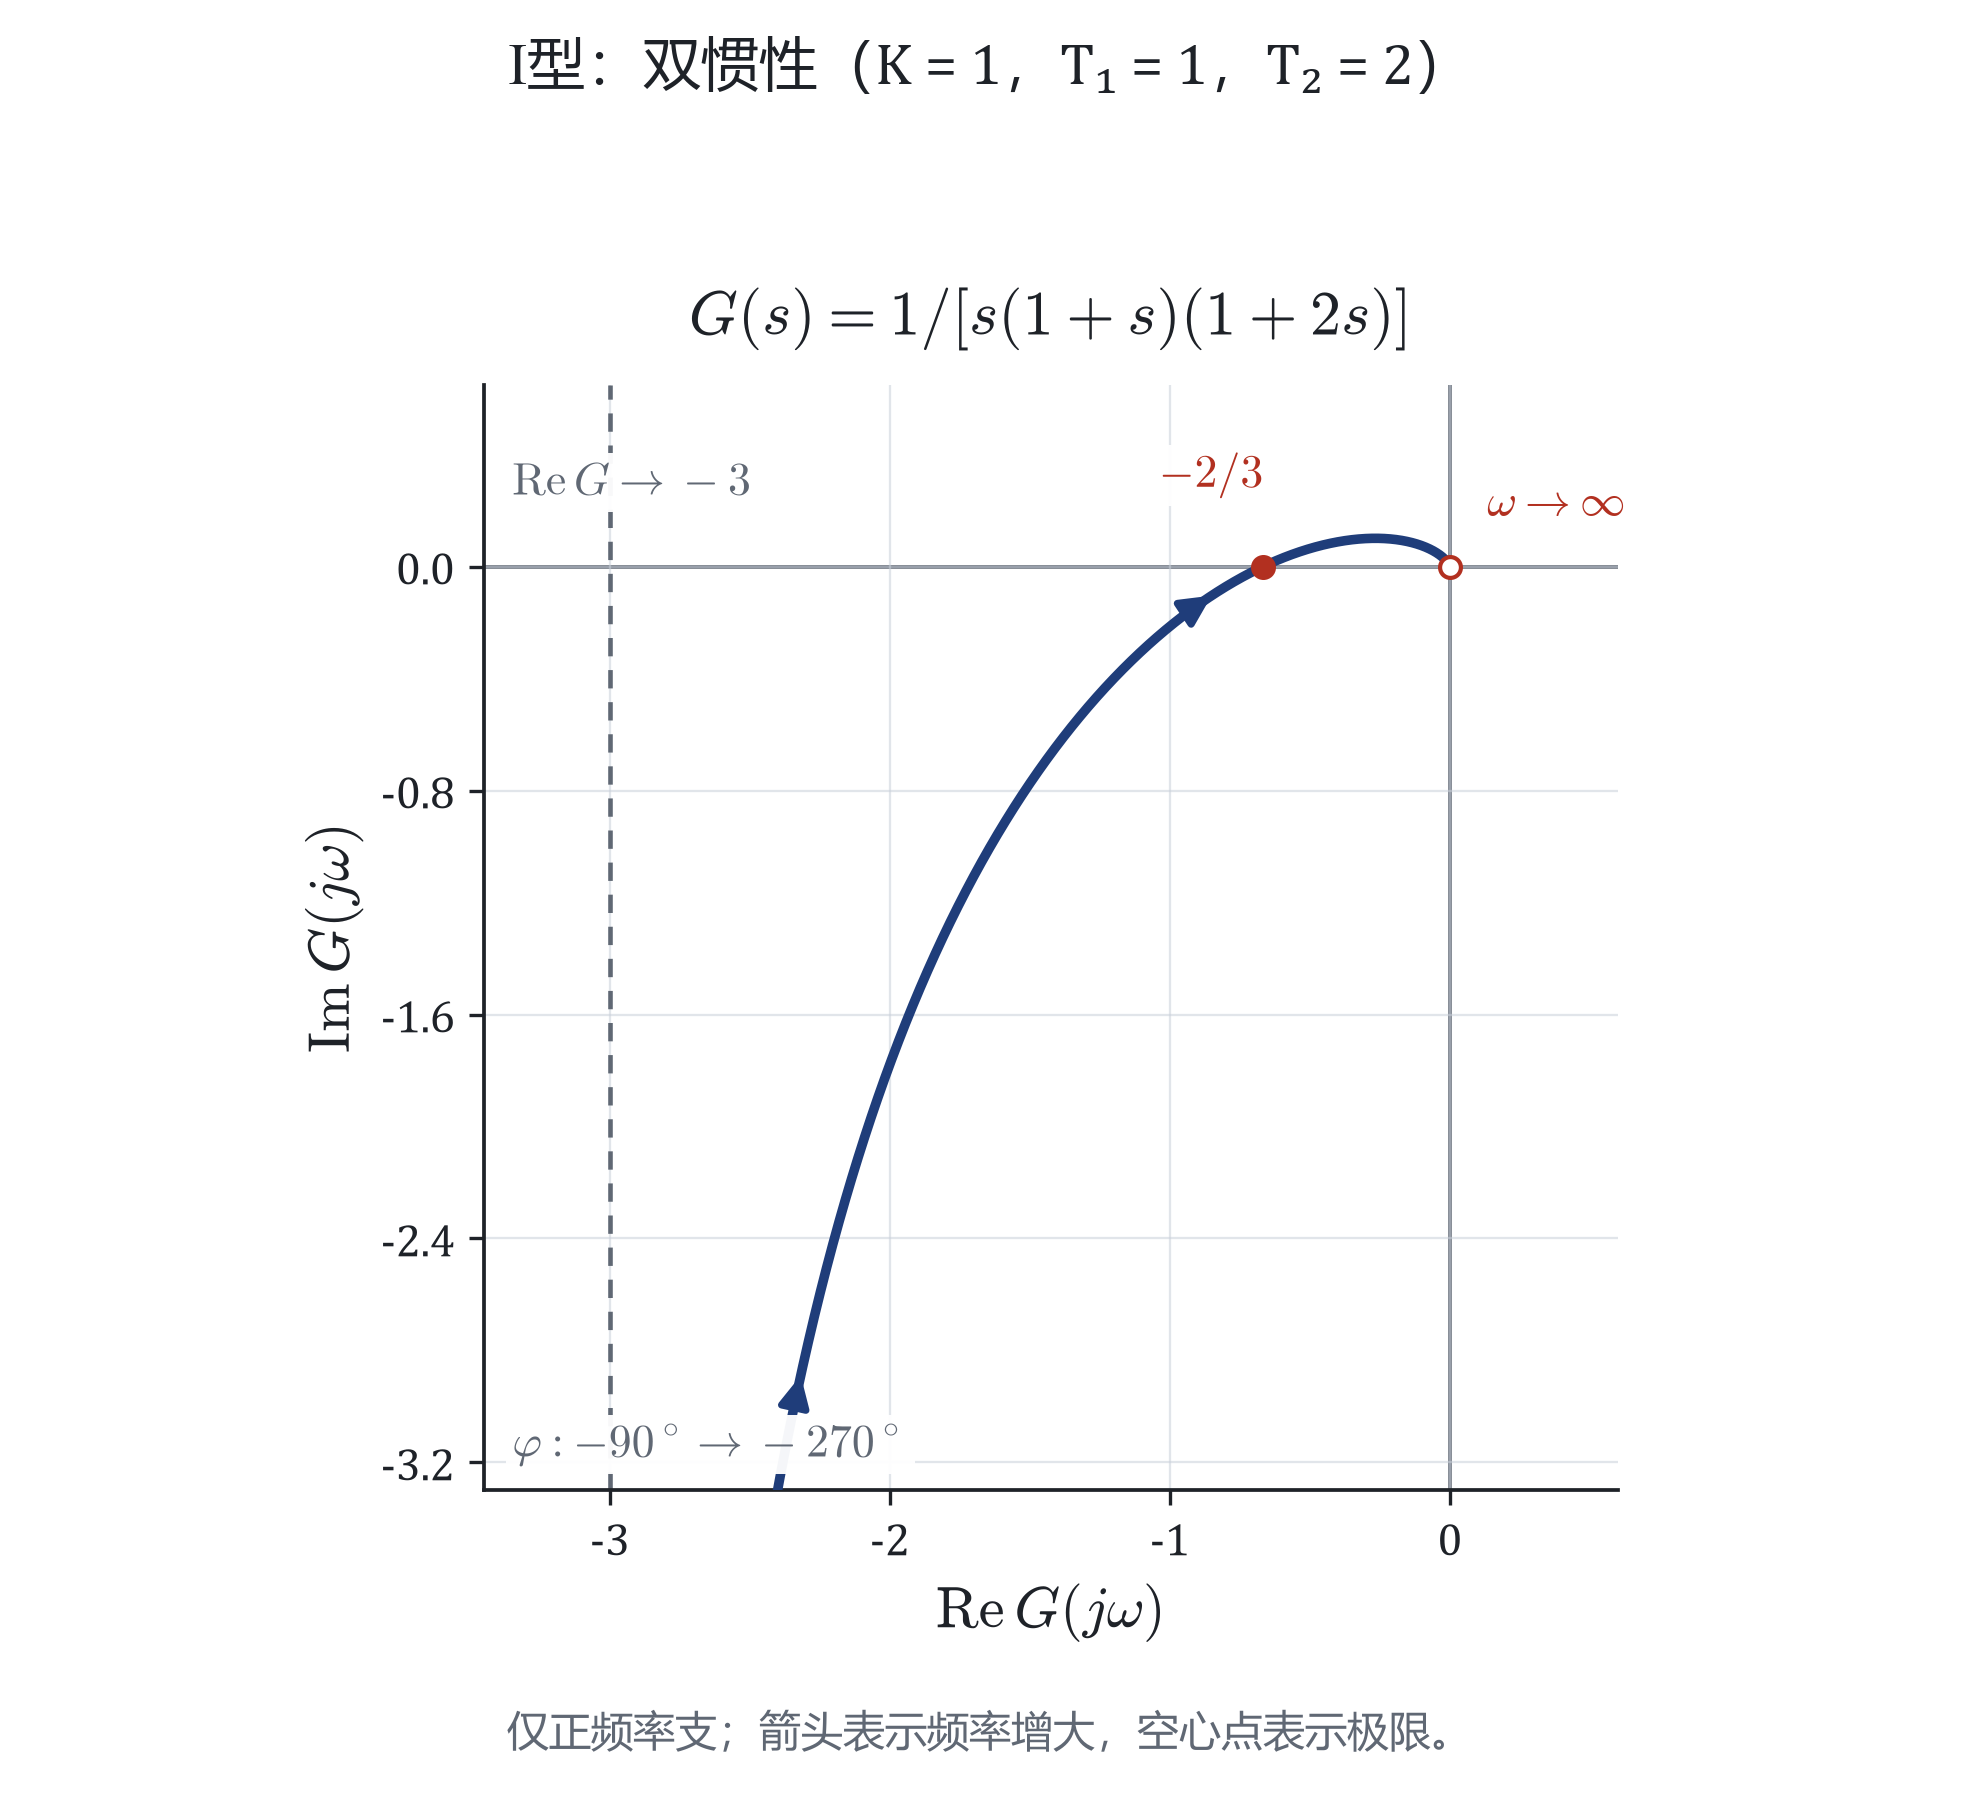
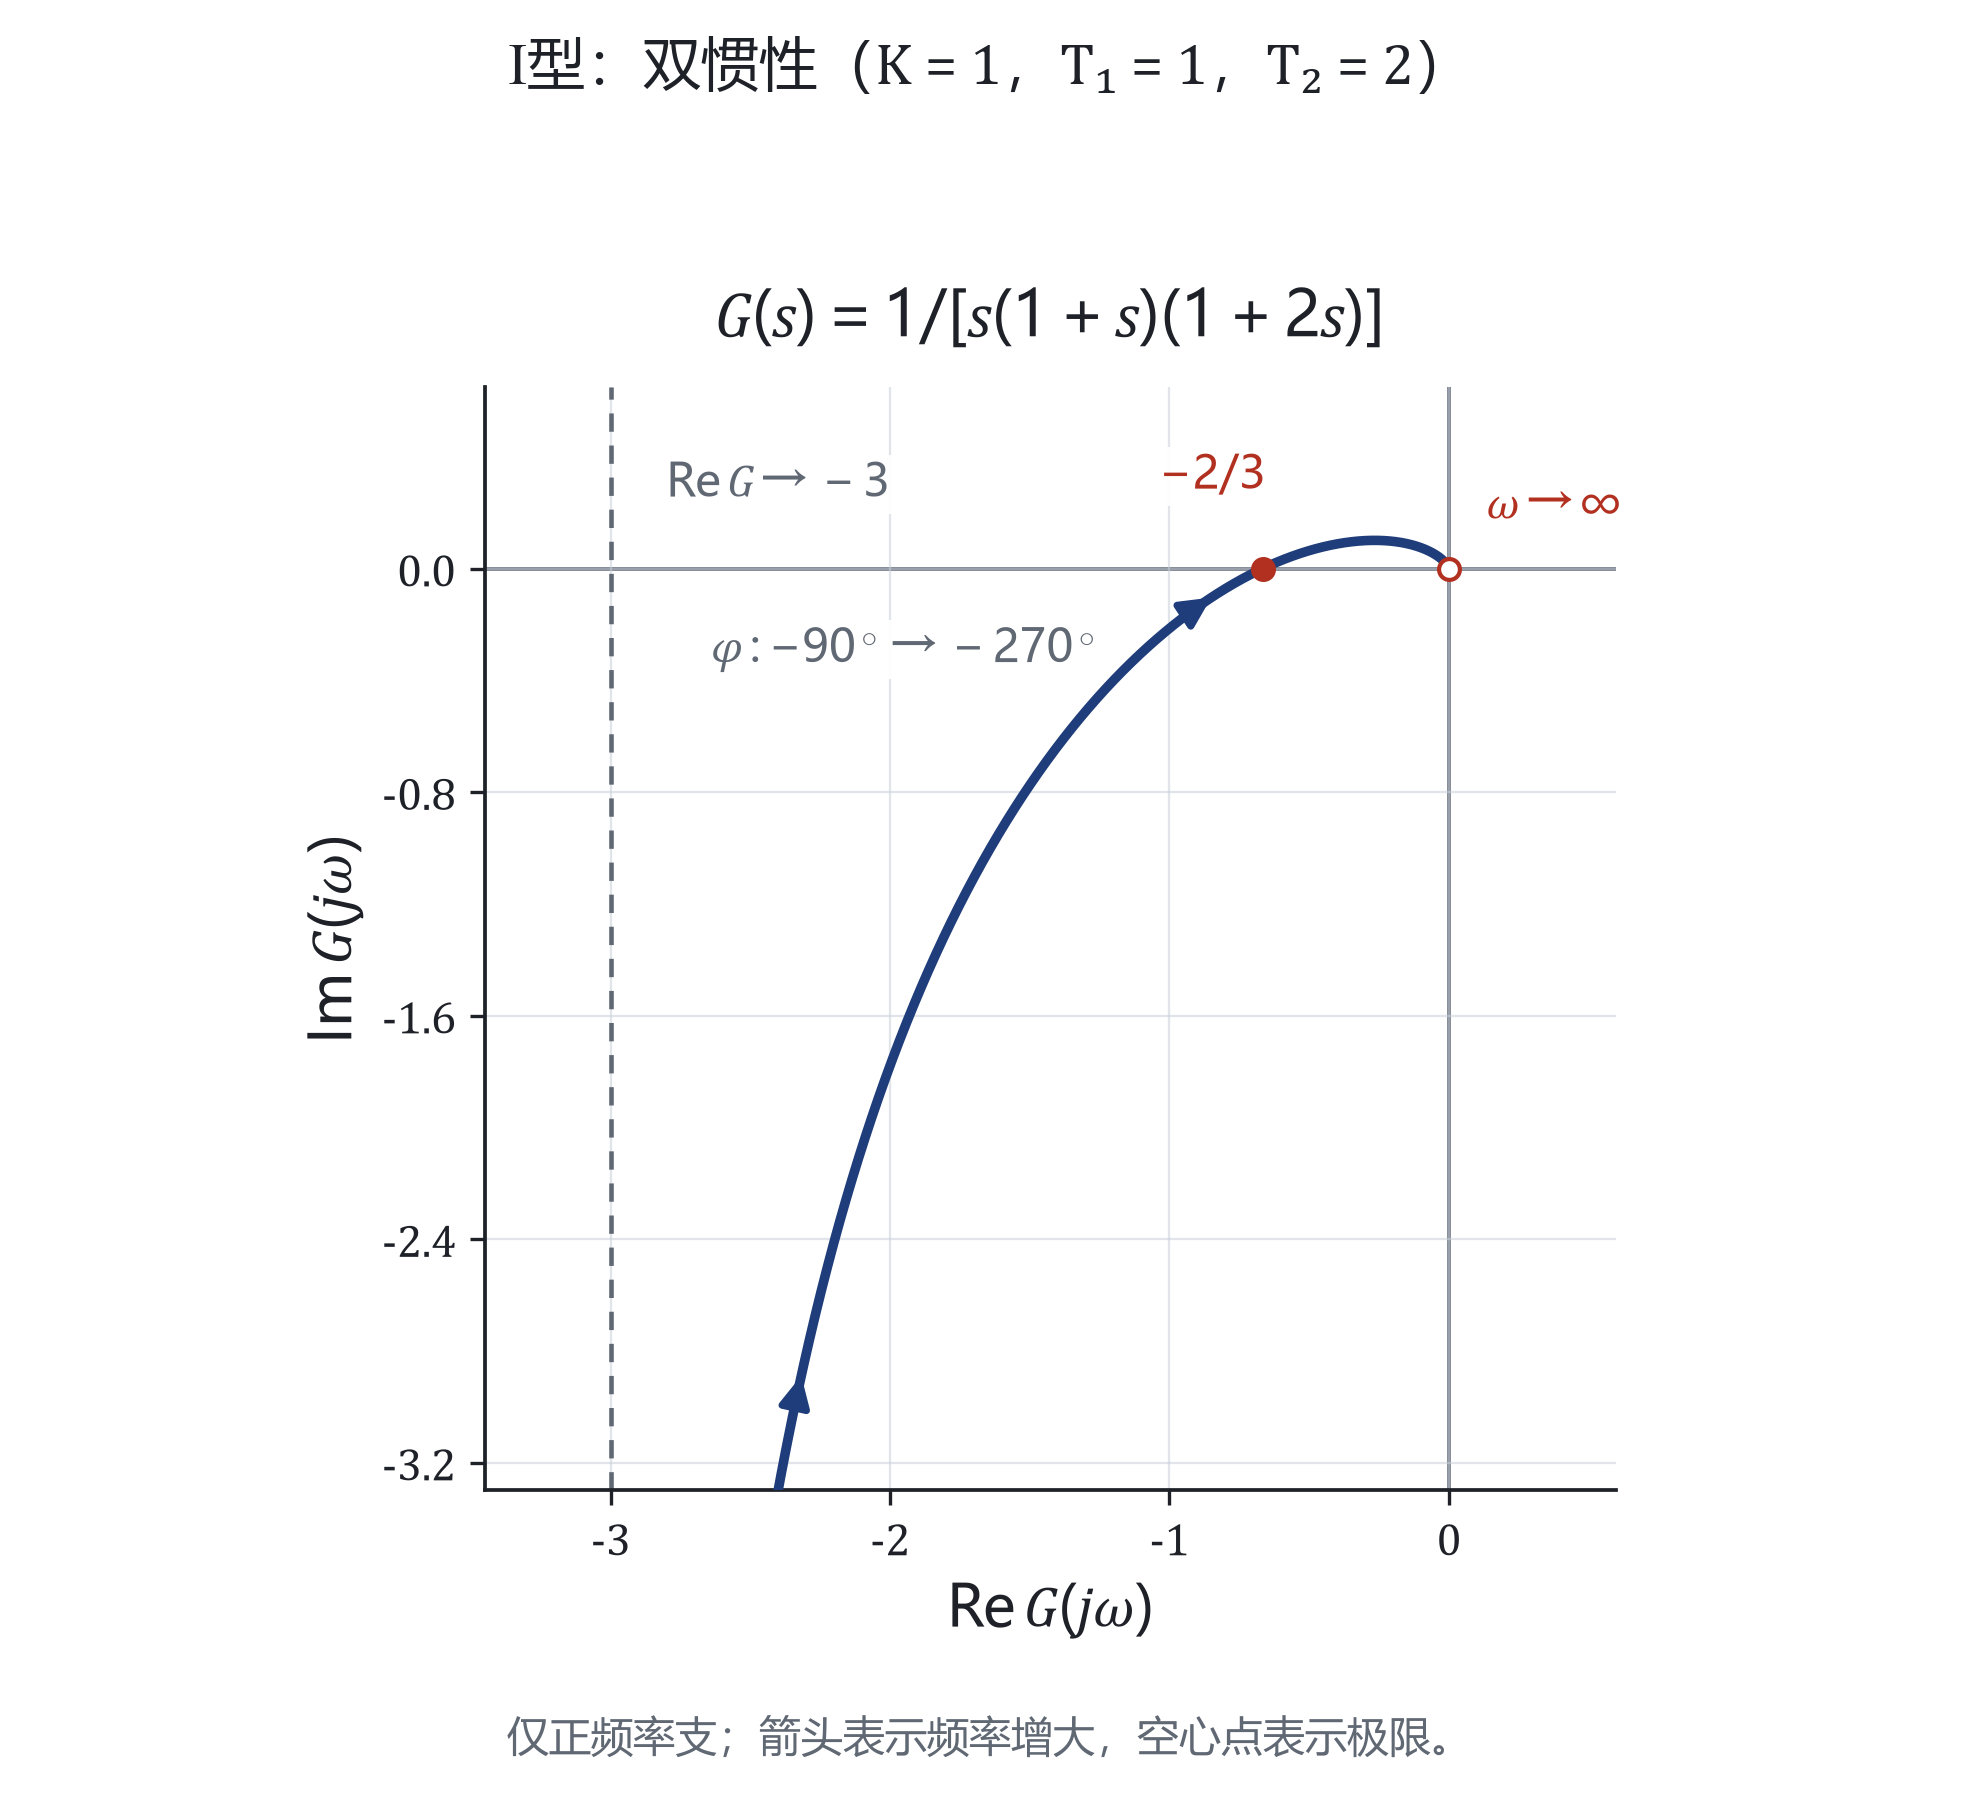
fix: 再清 14 张图的标注遮挡（第二批：开环型别族、虚轴极点对）
openloop-nyquist.py（三重微分 267 点最重）
- 三重微分：A 点上方是曲线从第二象限下来的段、左下是它从第三象限上来的段，
  只有右下方（第四象限）是曲线不去的地方，原来放左上直接咬掉 267 点；
  原点 ω=0 标注同步下移避免与 A 框叠字；|G|=1 挪到单位圆内侧与曲线之间的
  夹缝；相角说明整块下移到横轴之下（原来压在横轴上）。
- 给 shape() 加 phase_pos / asym_pos 两个参数：相角说明默认在左下角，而
  左下常常正是曲线出发的地方（Ⅰ型两图各咬掉 44~57 点）；渐近线标签放太
  靠左又会骑到竖虚线上。逐图覆盖后 0 型三张 + Ⅰ型两张全部清零。
- Ⅱ型零点对比：左上是 G₁ 低频支、左下是 G₂ 低频支，两条说明挪到右下空区；
  图例直接去掉——纵轴正好落在右上角，任何够宽的图例框都会压到纵轴上，
  而两条曲线已由同色说明点名，不靠图例分辨。
- 三重微分原点放大：说明拆两行，否则框会拖到纵轴上。

ch5-imaginary-pole-pair.py（263 / 163 / 157 点）
- −135° 标签原贴在相频曲线上（263 点）。ω<5 段曲线只占 -91°~-135°，
  下面 -140°~-310° 整片是空的，把标签沉到那里再用引线连回 (5, -135°)。
- ωc = 8.93 原在右下，同时压住真实曲线与渐近线（各 160 点）；
  抬到 0 dB 线上方：ωc 右侧两条线都在 0 dB 以下并继续下降。

自检：两张最重的图 0 处；openloop-nyquist 只剩 4 处 ≤34 点的轻微项（相角
说明贴纵轴、ωn 标注压曲线等），留待后续批次。

diff --git a/.scripts/figures/openloop-nyquist.py b/.scripts/figures/openloop-nyquist.py
@@ -84,21 +84,24 @@ def verify():
 
 
 def shape(name, title, formula, system, limits, arrows, phase, start=None,
-          crossing=None, asymptote=None, note_text=None, figsize=(6.6,6.0)):
+          crossing=None, asymptote=None, note_text=None, figsize=(6.6,6.0),
+          phase_pos=(0.025,0.03), asym_pos=(0.025,0.9)):
+    """phase_pos / asym_pos 可以逐图覆盖：左下角常常正好是曲线出发的地方，
+    相角说明放那儿必然压曲线；渐近线标签放太靠左又会骑到竖线上。"""
     if not selected(name):
         return
     fig, ax = canvas(title, formula, *limits, figsize=figsize)
     curve(ax, system, W, arrows)
     if asymptote is not None:
         ax.axvline(asymptote, color=fs.SUB, lw=1.1, ls=(0,(4,3)), zorder=2)
-        note(ax, rf"$\mathrm{{Re}}\,G\to {asymptote:g}$", (0.025,0.9))
+        note(ax, rf"$\mathrm{{Re}}\,G\to {asymptote:g}$", asym_pos)
     if start is not None:
         point(ax, start, r"$\omega=0$", (-42,12))
     point(ax, 0, r"$\omega\to\infty$", (9,12), limit=True)
     if crossing is not None:
         value, label, offset = crossing
         point(ax, value, label, offset)
-    note(ax, phase)
+    note(ax, phase, phase_pos)
     if note_text:
         note(ax, note_text, (0.025,0.8))
     finish(fig, OUT/name)
@@ -107,10 +110,10 @@ def shape(name, title, formula, system, limits, arrows, phase, start=None,
 def draw_shapes():
     shape("频域-奈氏-0型单惯性.png", "0 型：单惯性（K = 1，T = 1）",
           r"$G(s)=1/(1+s)$", G1, ((-0.2,1.2),(-0.78,0.22)), (0.65,2.0),
-          r"$\varphi:0^\circ\to-90^\circ$", start=1)
+          r"$\varphi:0^\circ\to-90^\circ$", start=1, phase_pos=(0.157,0.02))
     shape("频域-奈氏-0型双惯性.png", "0 型：双惯性（T₁ = 1，T₂ = 2）",
           r"$G(s)=1/[(1+s)(1+2s)]$", G02, ((-0.28,1.18),(-0.84,0.24)), (0.22,0.8),
-          r"$\varphi:0^\circ\to-180^\circ$", start=1)
+          r"$\varphi:0^\circ\to-180^\circ$", start=1, phase_pos=(0.20,0.02))
     shape("频域-奈氏-0型三惯性.png", "0 型：三惯性（T₁ = 1，T₂ = 2，T₃ = 0.5）",
           r"$G(s)=1/[(1+s)(1+2s)(1+0.5s)]$", G03,
           ((-0.36,1.18),(-0.86,0.30)), (0.23,0.9),
@@ -118,11 +121,13 @@ def draw_shapes():
           crossing=(-4/45,r"$-4/45$",(-40,20)))
     shape("频域-奈氏-Ⅰ型单惯性.png", "Ⅰ型：单惯性（K = 1，T = 1）",
           r"$G(s)=1/[s(1+s)]$", GI1, ((-1.55,0.7),(-2.9,0.4)), (0.4,1.1),
-          r"$\varphi:-90^\circ\to-180^\circ$", asymptote=-1)
+          r"$\varphi:-90^\circ\to-180^\circ$", asymptote=-1,
+          phase_pos=(0.711,0.06), asym_pos=(0.30,0.90))
     shape("频域-奈氏-Ⅰ型双惯性.png", "Ⅰ型：双惯性（K = 1，T₁ = 1，T₂ = 2）",
           r"$G(s)=1/[s(1+s)(1+2s)]$", GI2, ((-3.45,0.6),(-3.3,0.65)), (0.21,0.55),
           r"$\varphi:-90^\circ\to-270^\circ$", asymptote=-3,
-          crossing=(-2/3,r"$-2/3$",(-25,19)))
+          crossing=(-2/3,r"$-2/3$",(-25,19)),
+          phase_pos=(0.20,0.75), asym_pos=(0.16,0.90))
     shape("频域-奈氏-Ⅰ型带零点.png", "Ⅰ型：带零点（τ = 4，T₁ = 1，T₂ = 2）",
           r"$G(s)=(1+4s)/[s(1+s)(1+2s)]$", GIZ,
           ((-1.4,1.6),(-8.0,0.6)), (0.16,0.35,1.4),
@@ -167,12 +172,16 @@ def draw_type2_example():
         (-27,4),(-12,15), figsize=(7.4,6.7))
     curve(ax, GII2, W, (0.21,0.36), fs.MAG, r"$G_1$")
     curve(ax, GEX2, W, (0.24,0.52), fs.PHA, r"$G_2$")
-    point(ax, -128/9, r"$(-128/9,\,0)$", (-47,-28))
+    point(ax, -128/9, r"$(-128/9,\,0)$", (-47,-34))
     point(ax, 0, r"$\omega\to\infty$", (6,13), limit=True)
-    note(ax, "G₁ 低频：第二象限", (0.035,0.89), color=fs.MAG)
-    note(ax, "G₂ 低频：第三象限", (0.035,0.14), color=fs.PHA)
+    # 左上是 G₁ 的低频支、左下是 G₂ 的低频支，两条说明只能挪到右下空区；
+    # 图例默认留的边框余量会让它左边压到纵轴上，borderaxespad 归零贴住右边。
+    note(ax, "G₁ 低频：第二象限", (0.62,0.16), color=fs.MAG)
+    note(ax, "G₂ 低频：第三象限", (0.62,0.06), color=fs.PHA)
     note(ax, r"$\tau=6>1+2+0.5$", (0.035,0.055))
-    ax.legend(loc="upper right", fontsize=11)
+    # 不画图例：纵轴正好落在右上角，任何足够宽的图例框都会压到纵轴上；
+    # 两条曲线已由下面两条同色说明（G₁ / G₂ 低频）直接点名，不靠图例分辨。
+
     finish(fig, OUT/name, "两条曲线均从第一象限趋于原点；无穷远段已裁去。")
 
 
@@ -202,12 +211,17 @@ def draw_origin_zero_example():
         theta = np.linspace(0,np.pi,1200)
         ax.plot(np.cos(theta),np.sin(theta),ls=(0,(4,3)),lw=1,color=fs.SUB,zorder=1)
         curve(ax, GEX3, W, (0.8,2.5,7))
-        point(ax, 0, r"$\omega=0$", (5,-21), limit=True)
-        point(ax, -25/936, "A", (-19,9))
+        # A 点上方是曲线从第二象限下来的那段、左下是它从第三象限上来的那段，
+        # 只有右下方（第四象限）是曲线根本不去的地方 —— 原来放左上，直接咬掉
+        # 267 个采样点。原点的 ω=0 标注同步下移，免得和 A 的框叠在一起。
+        point(ax, 0, r"$\omega=0$", (8,-32), limit=True)
+        point(ax, -25/936, "A", (12,-14))
         point(ax, 1j*31*np.sqrt(155)/936, "B", (-18,7))
         point(ax, 1, r"$\omega\to\infty$", (-66,-22), limit=True)
-        note(ax, r"$|G|=1$", (0.64,0.82))
-        note(ax, r"$\varphi:270^\circ\to0^\circ$", (0.38,0.10))
+        # |G|=1 挪到单位圆内侧、曲线上方的那条夹缝里（原来正压在圆弧上）
+        note(ax, r"$|G|=1$", (0.534,0.708))
+        # 相角说明原来压在横轴上（框跨过 y=0），整块下移到横轴之下
+        note(ax, r"$\varphi:270^\circ\to0^\circ$", (0.38,0.035))
         finish(fig, OUT/name, "虚线为单位圆辅助线；原点附近的第三象限细节另见放大图。")
     name = "频域-幅相例题-三重微分原点放大.png"
     if selected(name):
@@ -217,7 +231,8 @@ def draw_origin_zero_example():
         curve(ax, GEX3, W, (0.12,0.30,0.48))
         point(ax, 0, r"$\omega=0$", (6,-15), limit=True)
         point(ax, -25/936, r"$A=(-25/936,\,0)$", (-13,14))
-        note(ax, "先进入第三象限，再向上穿过负实轴", (0.025,0.9))
+        # 文案拆两行：写成一行框会拖到纵轴上（压住纵轴线）
+        note(ax, "先进入第三象限，" "\n" "再向上穿过负实轴", (0.025,0.9))
         finish(fig, OUT/name, "仅截取起始段；箭头表示频率增大。")
 
 

diff --git a/.scripts/figures/ch5-imaginary-pole-pair.py b/.scripts/figures/ch5-imaginary-pole-pair.py
@@ -84,7 +84,9 @@ def draw(wc: float) -> None:
     ax1.axvline(wc, color=fs.SUB, lw=0.9, ls=(0, (4, 3)), zorder=1)
     ax1.annotate("L > 0 段（计数有效）", xy=(0.11, 0.86), xycoords="axes fraction",
                  fontsize=11, color=fs.INK)
-    ax1.annotate("ωc = 8.93", xy=(wc, 0), xytext=(14, -26),
+    # 抬到 0 dB 线**上方**：ωc 右侧真实曲线与渐近线都在 0 dB 以下并继续下降，
+    # 放右下必然压住两条线（实测各咬掉 160 个采样点）
+    ax1.annotate("ωc = 8.93", xy=(wc, 0), xytext=(14, 20),
                  textcoords="offset points", fontsize=11, color=fs.SUB)
     fs.tidy(ax1, turn_freqs=(W_N,))
     ax1.set_ylim(-40, 90)
@@ -100,8 +102,13 @@ def draw(wc: float) -> None:
                  xytext=(22, 46), textcoords="offset points", fontsize=11,
                  color=fs.INK, arrowprops=dict(arrowstyle="-", color=fs.SUB, lw=0.8))
     ax2.axhline(-180, color=fs.INK, lw=0.9, ls=(0, (5, 3)), zorder=2)
-    for x, y, lab in ((1.4, -116, "−135°"), (7.2, -296, "−315°")):
-        ax2.annotate(lab, xy=(x, y), fontsize=10, color=fs.SUB)
+    # −135° 标的是 ω→5⁻ 的相角。ω<5 段曲线只占 -91°~-135°，下面 -140°~-310°
+    # 整片是空的，所以把标签沉下去再用引线连回 (5, -135°)（原来贴在曲线上，
+    # 咬掉 263 个采样点）。−315° 在曲线上方空档，保持原位。
+    ax2.annotate("−135°", xy=(W_N, -135.0), xytext=(1.2, -170), fontsize=10,
+                 color=fs.SUB,
+                 arrowprops=dict(arrowstyle="-", color=fs.SUB, lw=0.8))
+    ax2.annotate("−315°", xy=(7.2, -296), fontsize=10, color=fs.SUB)
     fs.tidy(ax2, turn_freqs=(W_N,))
     ax2.set_ylim(-390, -60)
     ax2.set_yticks([-90, -180, -270, -360])
